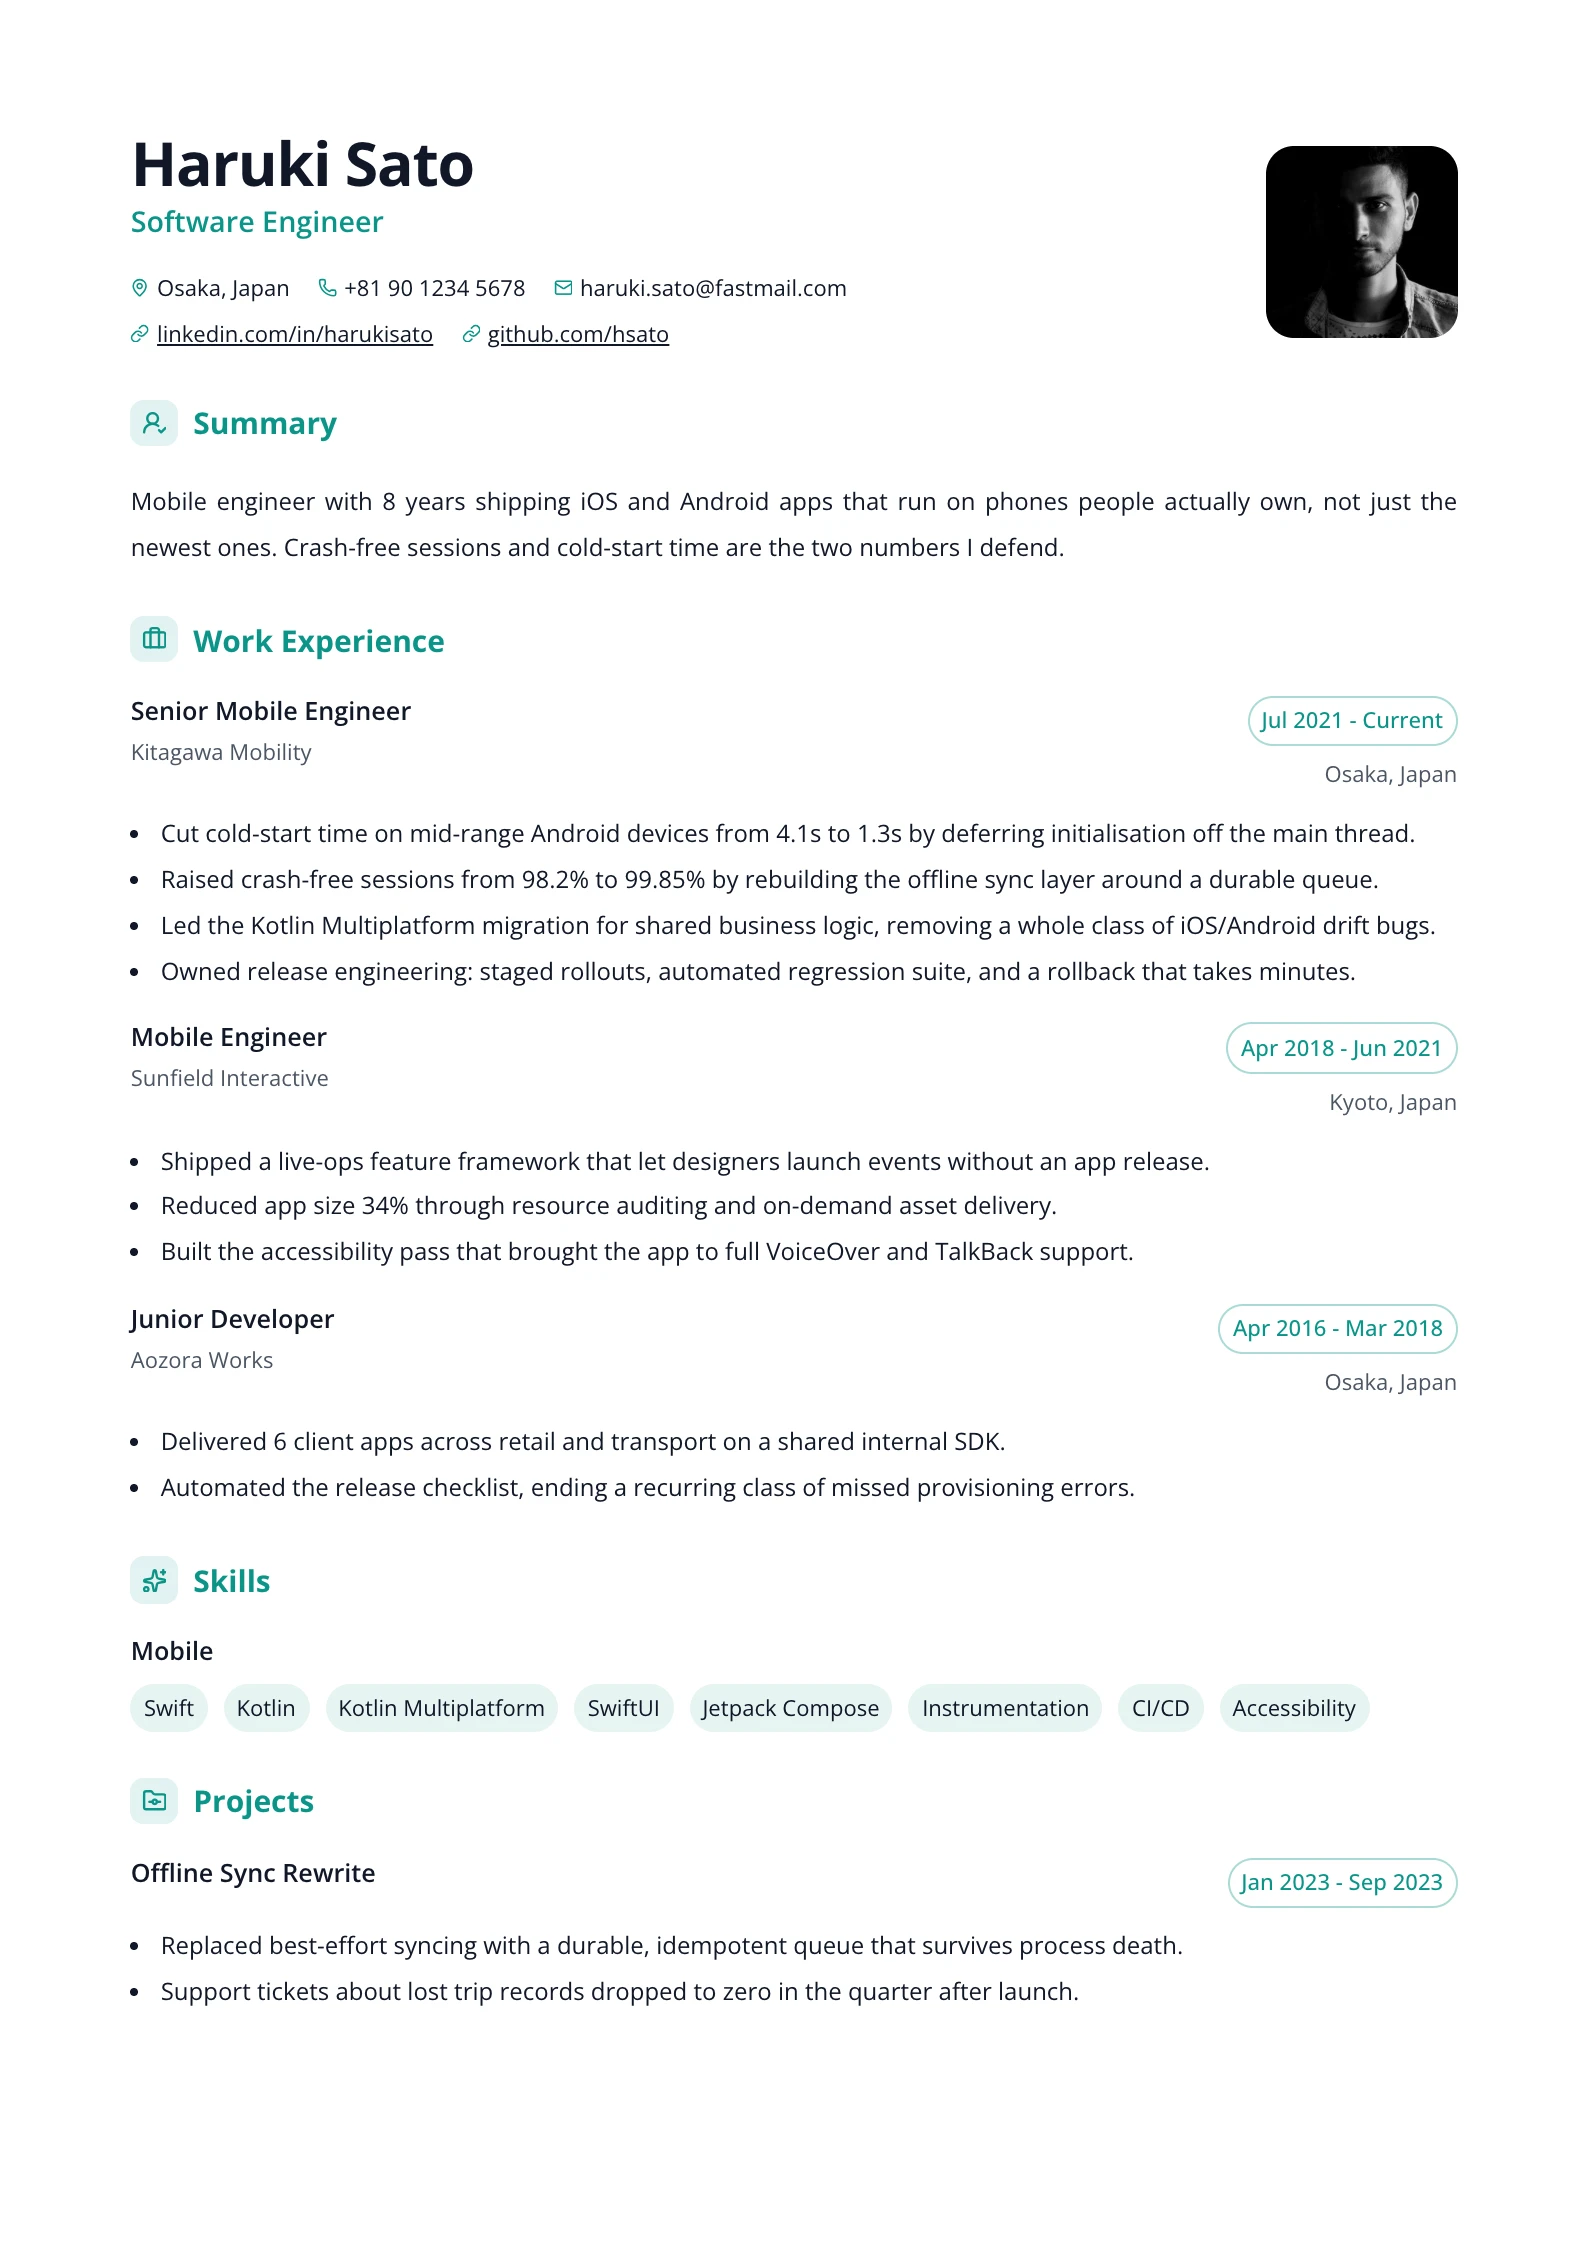
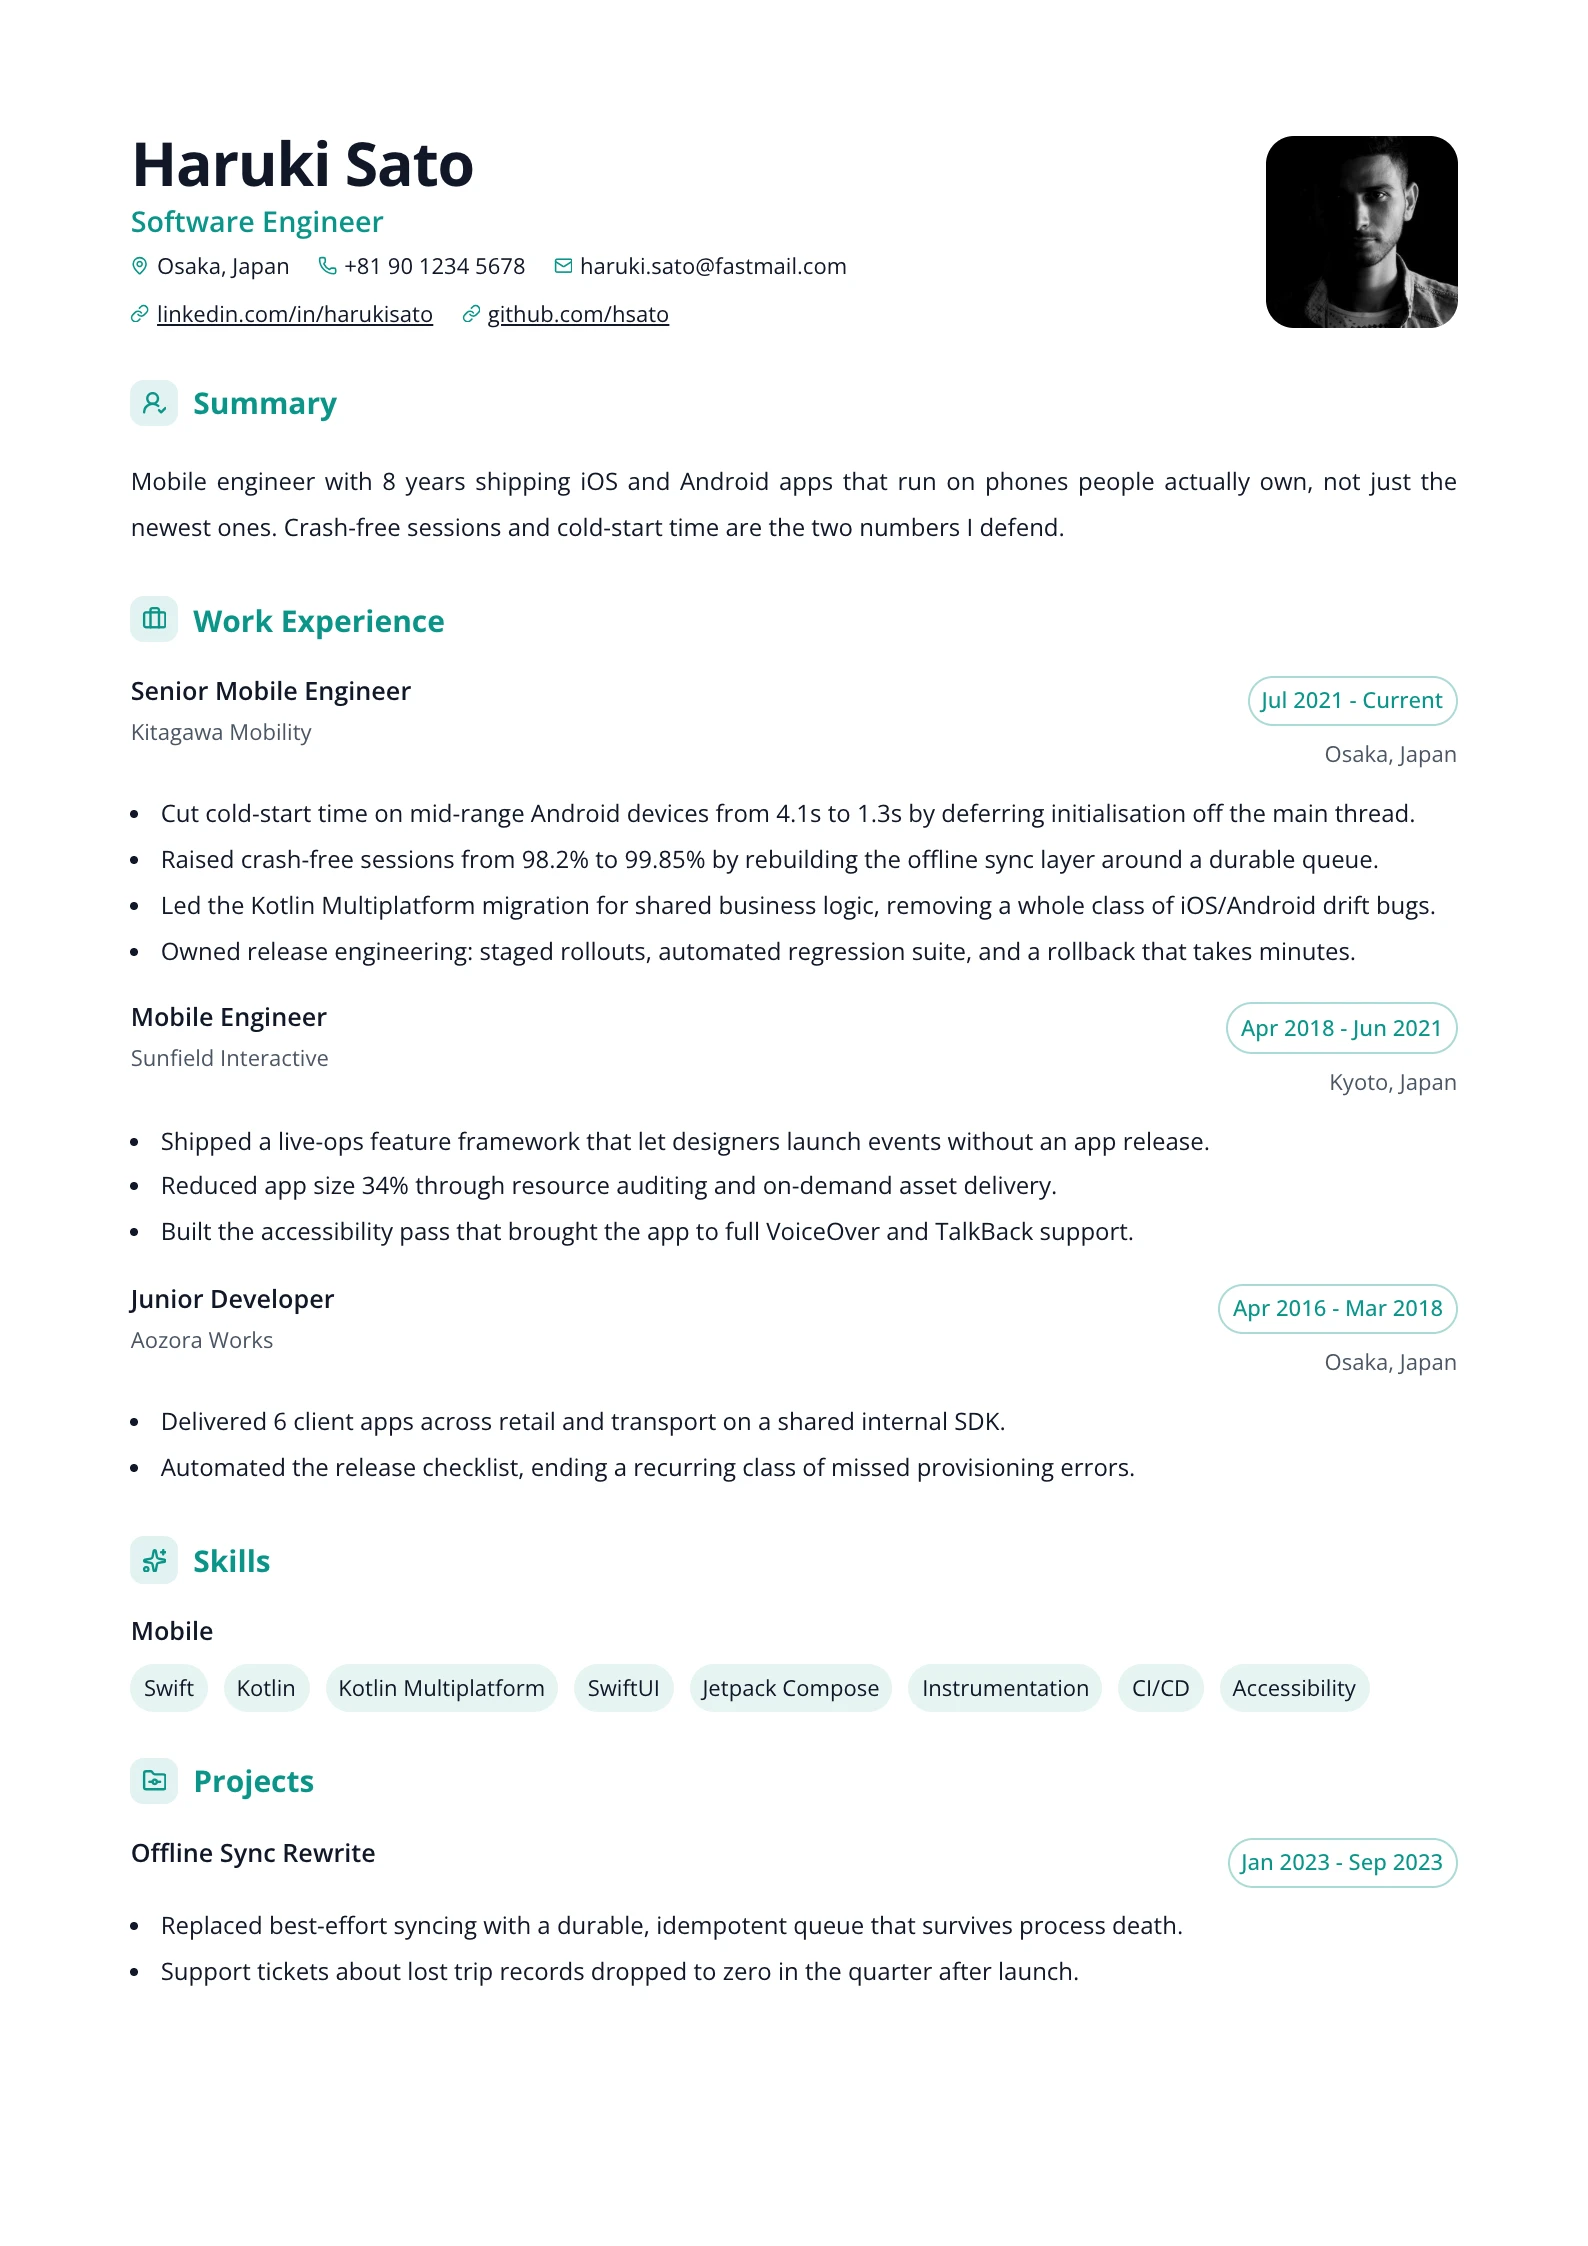
Step the header block by its own gap, not the item gap
Name → title, details → links, and name-block → contacts are all the same
relationship: lines within one identity block. They now share one token,
--resume-gap-header, instead of the header body borrowing --resume-gap-item,
which is the space between separate items in a section and read far too wide
between a title and the contacts under it.

Academic's centred column takes the token too; its photo already carries a
margin-bottom, so the photo keeps its own separation.

Claude-Session: https://claude.ai/code/session_01Ed9buKNu3JzvuqejkFDkpc

diff --git a/src/features/resume-editor/preview/resume-document.module.css b/src/features/resume-editor/preview/resume-document.module.css
@@ -1,4 +1,8 @@
 .root {
+  /* The identity block's own rhythm: name → title, details → links, and the
+     block → contacts all step by this. Deliberately not --resume-gap-item, which
+     is the spacing between separate items in a section. */
+  --resume-gap-header: 3px;
   font-family: var(--resume-font);
   color: var(--resume-text);
   font-size: var(--resume-body);
@@ -62,7 +66,7 @@
 :where(.root) :global(.name-block) {
   display: flex;
   flex-direction: column;
-  gap: 3px;
+  gap: var(--resume-gap-header);
   min-width: 0;
 }
 
@@ -115,7 +119,7 @@
 :where(.root) :global(.contact-block) {
   display: flex;
   flex-direction: column;
-  gap: 2px;
+  gap: var(--resume-gap-header);
   min-width: 0;
 }
 

diff --git a/src/features/resume-editor/preview/layouts/academic/styles.module.css b/src/features/resume-editor/preview/layouts/academic/styles.module.css
@@ -59,11 +59,13 @@
 }
 
 /* Header — name centered, contact in small caps, narrow gutter. */
+/* The photo carries its own margin-bottom, so this column can step by the
+   identity rhythm without the photo crowding the name. */
 .header {
   display: flex;
   flex-direction: column;
   align-items: center;
-  gap: var(--resume-gap-item);
+  gap: var(--resume-gap-header);
   --resume-name-color: var(--resume-text);
   text-align: center;
   padding-bottom: var(--resume-gap-section);

diff --git a/src/features/resume-editor/preview/layouts/aurora/styles.module.css b/src/features/resume-editor/preview/layouts/aurora/styles.module.css
@@ -139,7 +139,7 @@
   flex-direction: column;
   /* Name+title pair tightly inside .name-block; the contacts below them are a
      separate thing and need the full step, not the inner gap. */
-  gap: var(--resume-gap-item);
+  gap: var(--resume-gap-header);
 }
 
 /* The band is pale by design, so the name takes the text colour — the accent

diff --git a/src/features/resume-editor/preview/layouts/studio/styles.module.css b/src/features/resume-editor/preview/layouts/studio/styles.module.css
@@ -101,7 +101,7 @@
   flex-direction: column;
   /* Name+title pair tightly inside .name-block; the contacts below them are a
      separate thing and need the full step, not the inner gap. */
-  gap: var(--resume-gap-item);
+  gap: var(--resume-gap-header);
 }
 
 .header :global(.name) {

diff --git a/src/features/resume-editor/preview/layouts/timeline/styles.module.css b/src/features/resume-editor/preview/layouts/timeline/styles.module.css
@@ -95,7 +95,7 @@
   min-width: 0;
   display: flex;
   flex-direction: column;
-  gap: var(--resume-gap-item);
+  gap: var(--resume-gap-header);
 }
 
 /* The accent belongs to the rule under this header and to the timeline dots,

diff --git a/src/features/resume-editor/preview/layouts/sidebar/styles.module.css b/src/features/resume-editor/preview/layouts/sidebar/styles.module.css
@@ -115,7 +115,7 @@
   min-width: 0;
   display: flex;
   flex-direction: column;
-  gap: var(--resume-gap-item);
+  gap: var(--resume-gap-header);
 }
 
 /* On the accent band, so it reads in on-accent like the name above it. */

diff --git a/src/features/resume-editor/preview/layouts/bold-type/styles.module.css b/src/features/resume-editor/preview/layouts/bold-type/styles.module.css
@@ -77,7 +77,7 @@
   min-width: 0;
   display: flex;
   flex-direction: column;
-  gap: var(--resume-gap-item);
+  gap: var(--resume-gap-header);
 }
 
 /* Marker band from the section headings, thinned for the larger name. */

diff --git a/src/features/resume-editor/preview/layouts/classic/styles.module.css b/src/features/resume-editor/preview/layouts/classic/styles.module.css
@@ -42,7 +42,7 @@
   min-width: 0;
   display: flex;
   flex-direction: column;
-  gap: var(--resume-gap-item);
+  gap: var(--resume-gap-header);
 }
 
 /* Traditional and unadorned: a plain subtitle at half the name. */

diff --git a/src/features/resume-editor/preview/layouts/inset/styles.module.css b/src/features/resume-editor/preview/layouts/inset/styles.module.css
@@ -90,7 +90,7 @@
   min-width: 0;
   display: flex;
   flex-direction: column;
-  gap: var(--resume-gap-item);
+  gap: var(--resume-gap-header);
 }
 
 /* Tracked like the label gutter below it, at subtitle size. */

diff --git a/src/features/resume-editor/preview/layouts/banner/styles.module.css b/src/features/resume-editor/preview/layouts/banner/styles.module.css
@@ -41,7 +41,7 @@
   min-width: 0;
   display: flex;
   flex-direction: column;
-  gap: var(--resume-gap-item);
+  gap: var(--resume-gap-header);
 }
 
 .header :global(.header-photo) {

diff --git a/src/features/resume-editor/preview/layouts/modern-centered/styles.module.css b/src/features/resume-editor/preview/layouts/modern-centered/styles.module.css
@@ -90,7 +90,7 @@
   display: flex;
   flex-direction: column;
   align-items: center;
-  gap: var(--resume-gap-item);
+  gap: var(--resume-gap-header);
 }
 
 .header :global(.name) {
